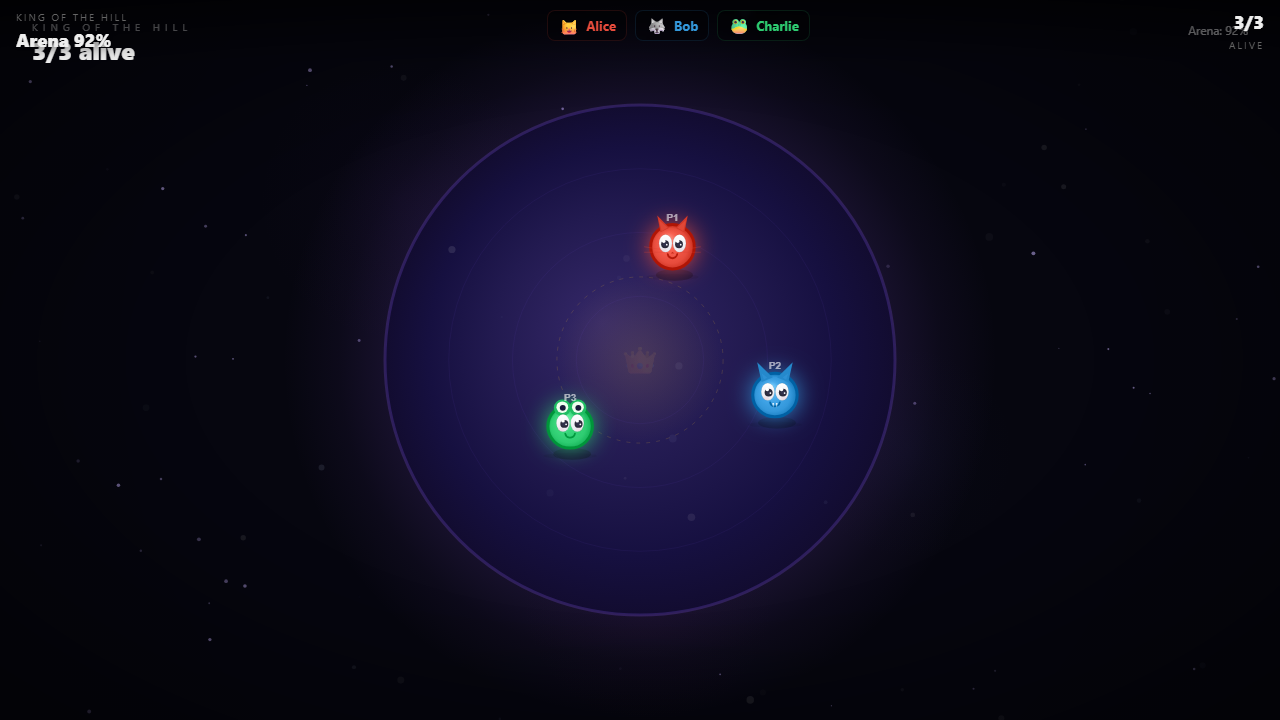
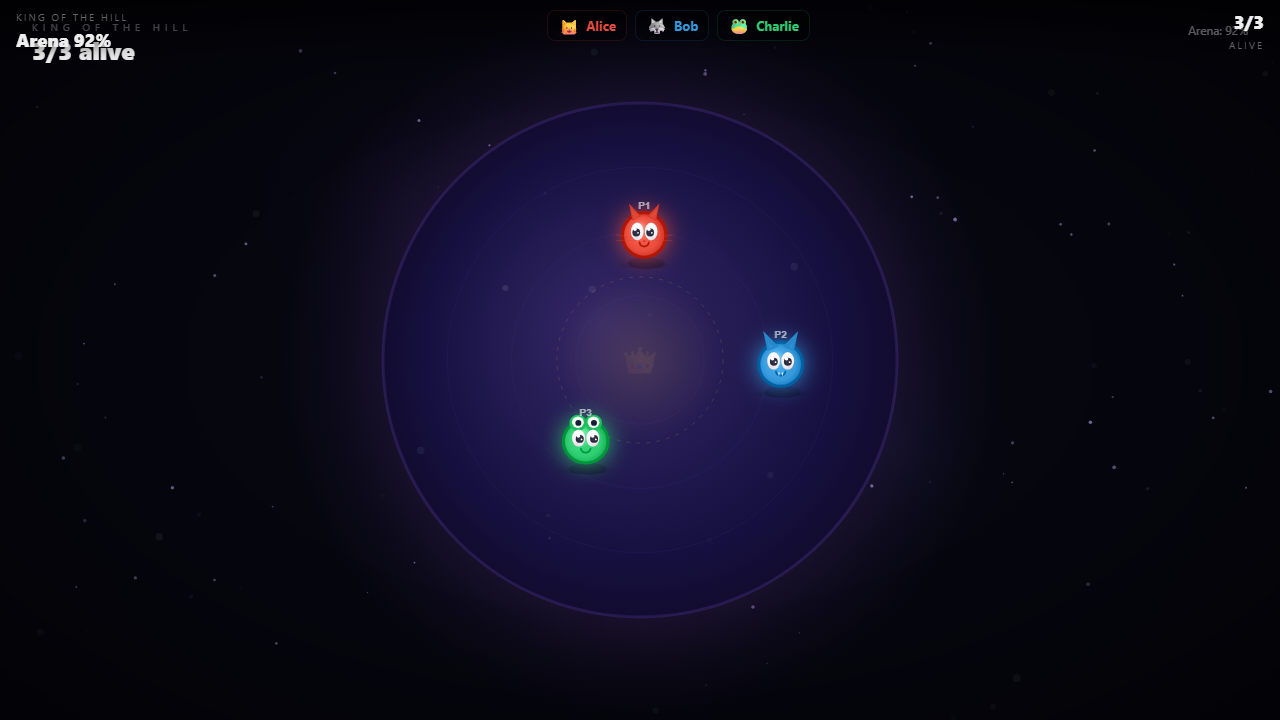
fix: race renderer double camera transform — pass null to scene.render
Draw functions already use camera.worldToScreen() internally.
Scene was also applying camera.applyTransform() = double transform.
Track rendered at wrong position/scale. Now scene gets null camera.

diff --git a/client-host-race/render2d.js b/client-host-race/render2d.js
@@ -108,13 +108,11 @@ const Render2D = (() => {
     // Clear
     ctx.clearRect(0, 0, W, H);
 
-    // Render scene with camera
-    scene.render(ctx, camera);
+    // Render scene (draw functions use camera.worldToScreen internally, no double transform)
+    scene.render(ctx, null);
 
-    // Particles (world space)
-    camera.applyTransform(ctx);
+    // Particles (screen space — positions already converted by draw functions)
     particles.draw(ctx);
-    camera.resetTransform(ctx);
 
     // Post-processing (screen space)
     if (typeof FX !== 'undefined') FX.drawAfter(ctx);
